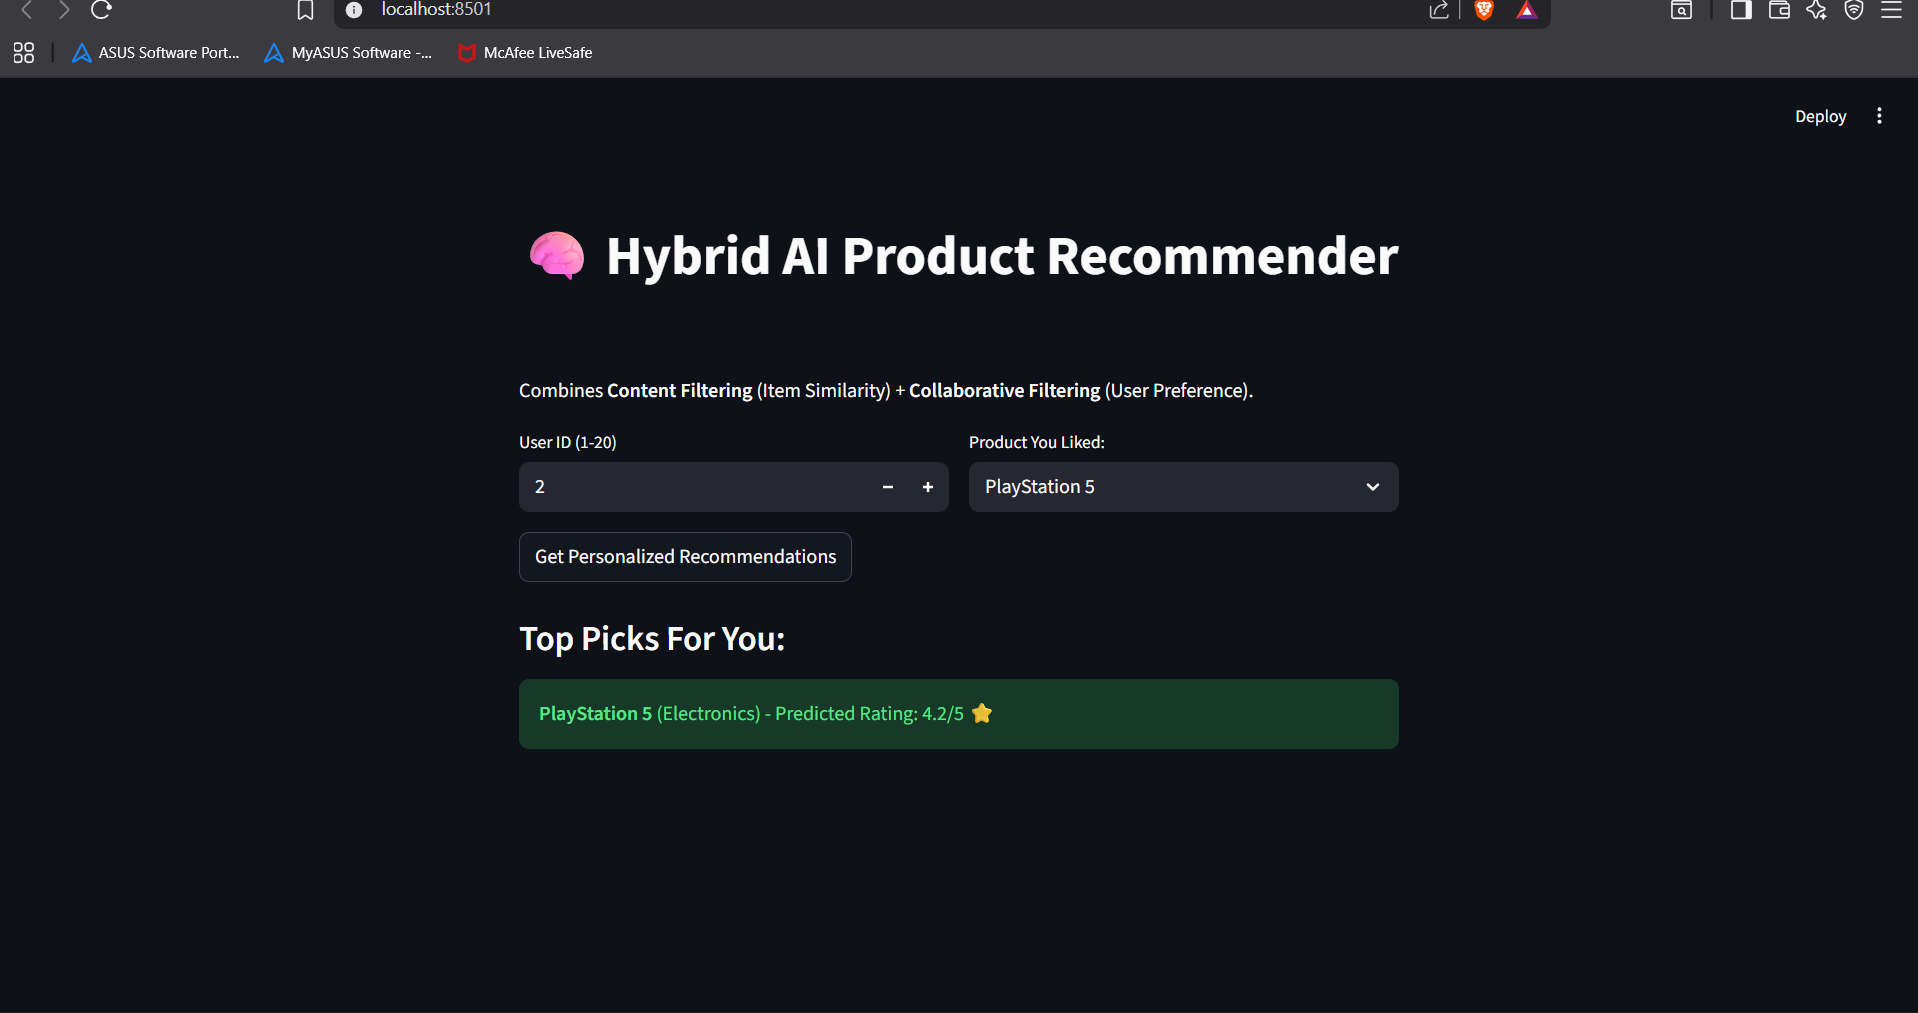
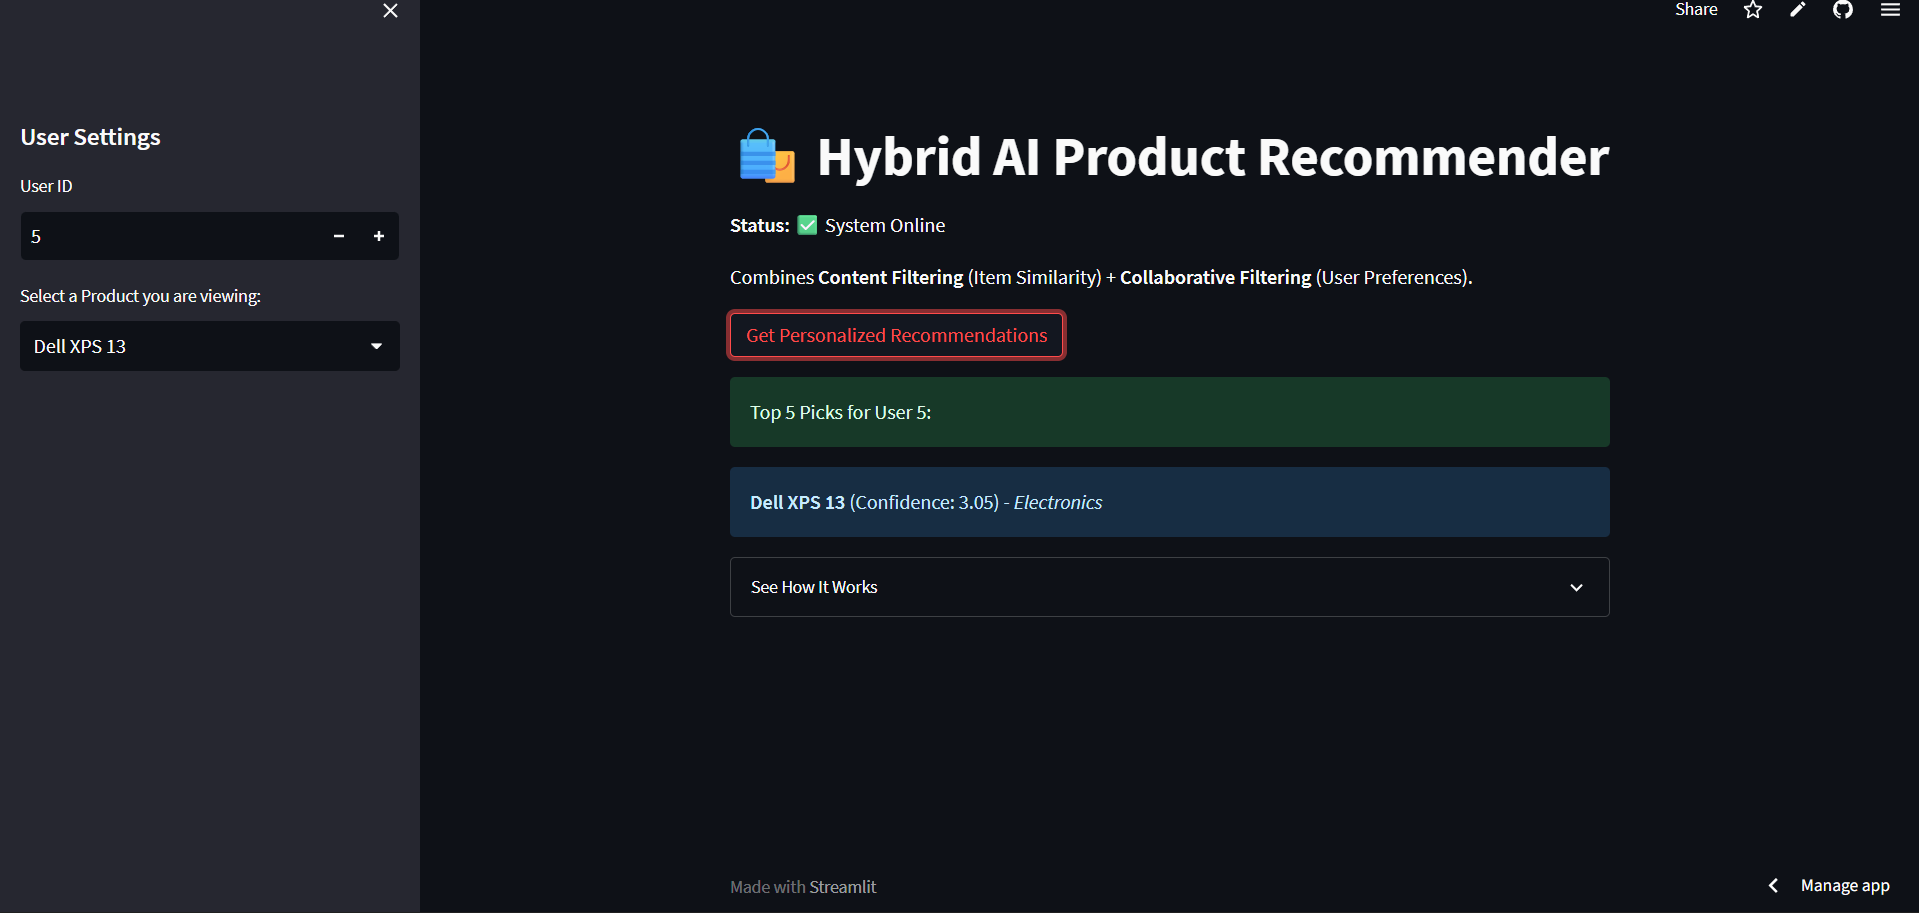
Updated project screenshots

diff --git a/README.md b/README.md
@@ -37,7 +37,9 @@ This system solves the **Cold Start Problem** by falling back to content similar
 
 ### 1. The Interactive UI
 *Simple and clean dashboard for users.*
-![User Interface](screenshots/ui.png)
+![User Interface](screenshots/ui.png) 
+
+![User Interface](screenshots/ui2.png)
 
 ### 2. The Code Structure
 *Professional folder architecture separating Logic (src), API, and Frontend.*
